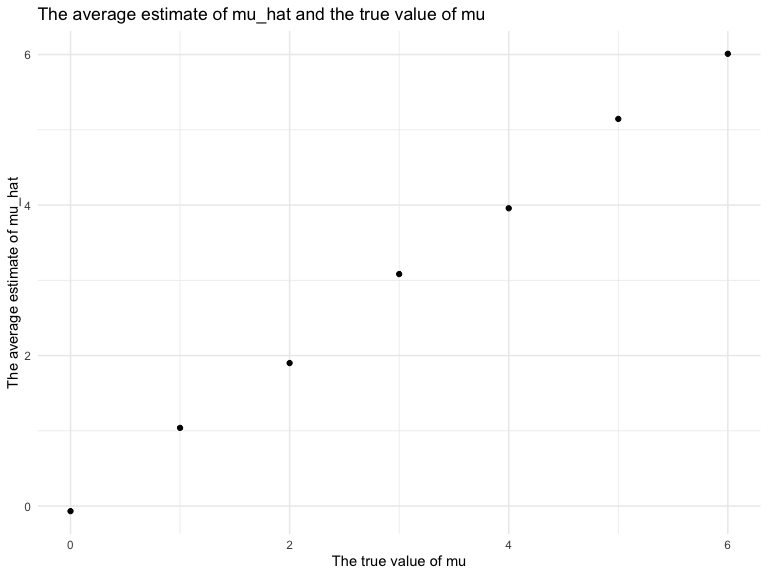
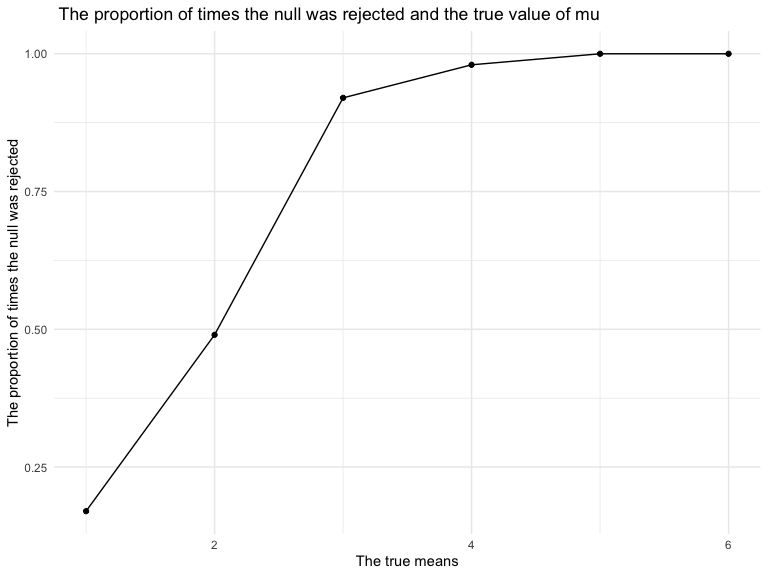
add line plots into three plots in problem 3

diff --git a/p8105_hw5_yc4016.md b/p8105_hw5_yc4016.md
@@ -297,28 +297,27 @@ each_cities =
   mutate(prop_cities = map2(.x = total_homicide_unsolved, .y = total_homicide, ~prop.test(x = .x, n = .y)),
          tidy_cities = map(.x = prop_cities, ~ broom::tidy(.x))) %>% 
   unnest(tidy_cities) %>% 
-  select(-prop_cities, city_state, estimate, conf.low, conf.high) %>% 
+  select(city_state, estimate, conf.low, conf.high) %>% 
   janitor::clean_names() 
+  
 
 each_cities
 ```
 
-    ## # A tibble: 50 × 11
-    ##    city_state  total…¹ total…² estim…³ stati…⁴   p_value param…⁵ conf_…⁶ conf_…⁷
-    ##    <chr>         <int>   <int>   <dbl>   <dbl>     <dbl>   <int>   <dbl>   <dbl>
-    ##  1 Albuquerqu…     378     146   0.386 1.91e+1 1.23e-  5       1   0.337   0.438
-    ##  2 Atlanta, GA     973     373   0.383 5.25e+1 4.32e- 13       1   0.353   0.415
-    ##  3 Baltimore,…    2827    1825   0.646 2.39e+2 6.46e- 54       1   0.628   0.663
-    ##  4 Baton Roug…     424     196   0.462 2.27e+0 1.32e-  1       1   0.414   0.511
-    ##  5 Birmingham…     800     347   0.434 1.38e+1 2.05e-  4       1   0.399   0.469
-    ##  6 Boston, MA      614     310   0.505 4.07e-2 8.40e-  1       1   0.465   0.545
-    ##  7 Buffalo, NY     521     319   0.612 2.58e+1 3.73e-  7       1   0.569   0.654
-    ##  8 Charlotte,…     687     206   0.300 1.09e+2 1.41e- 25       1   0.266   0.336
-    ##  9 Chicago, IL    5535    4073   0.736 1.23e+3 1.28e-269       1   0.724   0.747
-    ## 10 Cincinnati…     694     309   0.445 8.11e+0 4.41e-  3       1   0.408   0.483
-    ## # … with 40 more rows, 2 more variables: method <chr>, alternative <chr>, and
-    ## #   abbreviated variable names ¹total_homicide, ²total_homicide_unsolved,
-    ## #   ³estimate, ⁴statistic, ⁵parameter, ⁶conf_low, ⁷conf_high
+    ## # A tibble: 50 × 4
+    ##    city_state      estimate conf_low conf_high
+    ##    <chr>              <dbl>    <dbl>     <dbl>
+    ##  1 Albuquerque, NM    0.386    0.337     0.438
+    ##  2 Atlanta, GA        0.383    0.353     0.415
+    ##  3 Baltimore, MD      0.646    0.628     0.663
+    ##  4 Baton Rouge, LA    0.462    0.414     0.511
+    ##  5 Birmingham, AL     0.434    0.399     0.469
+    ##  6 Boston, MA         0.505    0.465     0.545
+    ##  7 Buffalo, NY        0.612    0.569     0.654
+    ##  8 Charlotte, NC      0.300    0.266     0.336
+    ##  9 Chicago, IL        0.736    0.724     0.747
+    ## 10 Cincinnati, OH     0.445    0.408     0.483
+    ## # … with 40 more rows
 
 #### Create a plot that shows the estimates and CIs for each city
 
@@ -340,12 +339,14 @@ plot_each_cities
 
 # Problem 3
 
+#### Create function
+
 ``` r
 norm_mean_p = function(n=30, mu, sigma = 5) {
   norm_data = tibble(x = rnorm(n, mean = mu, sd = sigma))
   norm_data %>% 
     t.test (mu = 0, alpha = 0.05, conf.level = 0.95) %>% 
-     broom::tidy ()
+    broom::tidy ()
 }
 
 norm_mean_p
@@ -355,12 +356,46 @@ norm_mean_p
     ##   norm_data = tibble(x = rnorm(n, mean = mu, sd = sigma))
     ##   norm_data %>% 
     ##     t.test (mu = 0, alpha = 0.05, conf.level = 0.95) %>% 
-    ##      broom::tidy ()
+    ##     broom::tidy ()
     ## }
+
+#### Test mean = 0
+
+``` r
+norm_results_0 = 
+  expand_grid(n = 30, 
+              mu = 0, 
+              sigma = 5,
+              iteration = 1:100) %>% 
+  mutate(estimate_df = map(mu, ~norm_mean_p(mu=.x))) %>% 
+  unnest(estimate_df)
+
+norm_results_0
+```
+
+    ## # A tibble: 100 × 12
+    ##        n    mu sigma iteration estimate statis…¹ p.value param…² conf.…³ conf.…⁴
+    ##    <dbl> <dbl> <dbl>     <int>    <dbl>    <dbl>   <dbl>   <dbl>   <dbl>   <dbl>
+    ##  1    30     0     5         1   0.491    0.664   0.512       29  -1.02    2.00 
+    ##  2    30     0     5         2  -0.173   -0.244   0.809       29  -1.62    1.28 
+    ##  3    30     0     5         3  -0.186   -0.203   0.841       29  -2.06    1.69 
+    ##  4    30     0     5         4   2.52     2.70    0.0114      29   0.611   4.42 
+    ##  5    30     0     5         5   0.0213   0.0226  0.982       29  -1.90    1.94 
+    ##  6    30     0     5         6  -0.651   -0.572   0.572       29  -2.98    1.67 
+    ##  7    30     0     5         7  -1.32    -1.54    0.135       29  -3.07    0.436
+    ##  8    30     0     5         8  -1.11    -1.27    0.213       29  -2.90    0.675
+    ##  9    30     0     5         9   0.442    0.442   0.662       29  -1.61    2.49 
+    ## 10    30     0     5        10   0.976    1.00    0.326       29  -1.02    2.97 
+    ## # … with 90 more rows, 2 more variables: method <chr>, alternative <chr>, and
+    ## #   abbreviated variable names ¹statistic, ²parameter, ³conf.low, ⁴conf.high
+
+#### Test mu = {1,2,3,4,5,6}
 
 ``` r
 norm_results = 
-  expand_grid(mu = c(0,1,2,3,4,5,6),
+  expand_grid(n = 30, 
+              mu = c(1,2,3,4,5,6),
+              sigma = 5,
               iteration = 1:100) %>% 
   mutate(estimate_df = map(mu, ~norm_mean_p(mu=.x))) %>% 
   unnest(estimate_df)
@@ -368,21 +403,21 @@ norm_results =
 norm_results
 ```
 
-    ## # A tibble: 700 × 10
-    ##       mu iterat…¹ estim…² stati…³ p.value param…⁴ conf.…⁵ conf.…⁶ method alter…⁷
-    ##    <dbl>    <int>   <dbl>   <dbl>   <dbl>   <dbl>   <dbl>   <dbl> <chr>  <chr>  
-    ##  1     0        1 -0.469  -0.521   0.606       29  -2.31    1.37  One S… two.si…
-    ##  2     0        2 -1.13   -1.21    0.237       29  -3.04    0.783 One S… two.si…
-    ##  3     0        3  0.0391  0.0498  0.961       29  -1.56    1.64  One S… two.si…
-    ##  4     0        4  0.438   0.506   0.616       29  -1.33    2.21  One S… two.si…
-    ##  5     0        5 -0.609  -0.653   0.519       29  -2.52    1.30  One S… two.si…
-    ##  6     0        6 -0.517  -0.582   0.565       29  -2.34    1.30  One S… two.si…
-    ##  7     0        7 -0.273  -0.286   0.777       29  -2.23    1.68  One S… two.si…
-    ##  8     0        8  1.45    1.26    0.217       29  -0.903   3.81  One S… two.si…
-    ##  9     0        9  0.257   0.231   0.819       29  -2.01    2.53  One S… two.si…
-    ## 10     0       10 -1.77   -1.79    0.0837      29  -3.78    0.250 One S… two.si…
-    ## # … with 690 more rows, and abbreviated variable names ¹iteration, ²estimate,
-    ## #   ³statistic, ⁴parameter, ⁵conf.low, ⁶conf.high, ⁷alternative
+    ## # A tibble: 600 × 12
+    ##        n    mu sigma iteration estimate statis…¹ p.value param…² conf.…³ conf.…⁴
+    ##    <dbl> <dbl> <dbl>     <int>    <dbl>    <dbl>   <dbl>   <dbl>   <dbl>   <dbl>
+    ##  1    30     1     5         1    0.857    1.32   0.198       29  -0.473    2.19
+    ##  2    30     1     5         2    1.51     1.65   0.111       29  -0.367    3.39
+    ##  3    30     1     5         3    2.26     2.47   0.0194      29   0.392    4.12
+    ##  4    30     1     5         4    0.727    0.762  0.452       29  -1.22     2.68
+    ##  5    30     1     5         5    1.84     2.52   0.0177      29   0.343    3.33
+    ##  6    30     1     5         6    1.57     1.44   0.160       29  -0.654    3.79
+    ##  7    30     1     5         7    1.36     1.60   0.120       29  -0.379    3.10
+    ##  8    30     1     5         8    0.858    0.825  0.416       29  -1.27     2.98
+    ##  9    30     1     5         9    0.236    0.234  0.817       29  -1.83     2.30
+    ## 10    30     1     5        10    0.156    0.227  0.822       29  -1.24     1.56
+    ## # … with 590 more rows, 2 more variables: method <chr>, alternative <chr>, and
+    ## #   abbreviated variable names ¹statistic, ²parameter, ³conf.low, ⁴conf.high
 
 #### Plot showing the proportion of times the null was rejected and the true value of mu.
 
@@ -390,24 +425,25 @@ norm_results
 plot1 = 
   norm_results%>%
     group_by(mu) %>%
-    summarize(n_sum = n(),
-              p_value_sum = sum(p.value < 0.05)) %>% 
-    mutate (proportion_rejected = p_value_sum / n_sum) %>% 
+    summarize(sum_all = n(),
+              sum_reject = sum(p.value < 0.05)) %>% 
+    mutate (proportion_rejected = sum_reject / sum_all) %>% 
   ggplot(aes(x = mu, y = proportion_rejected)) + 
   geom_point() + 
+  geom_line() + 
   labs(title = " The proportion of times the null was rejected and the true value of mu", 
-       x = "The true value of means",
+       x = "The true means",
        y = "The proportion of times the null was rejected") 
 
 plot1
 ```
 
-<img src="p8105_hw5_yc4016_files/figure-gfm/unnamed-chunk-11-1.png" width="90%" />
+<img src="p8105_hw5_yc4016_files/figure-gfm/unnamed-chunk-12-1.png" width="90%" />
 
 -   The proportion of times the null was rejected increases when the
     value of true mean increases.
 -   So the effect size and power have positive relationship.
--   So theeffect size increases, the power also increases.
+-   So the effect size increases, the power also increases.
 
 #### Plot showing the average estimate of mu_hat and the true value of mu.
 
@@ -415,16 +451,17 @@ plot1
 plot2 = 
   norm_results %>%
     group_by(mu) %>%
-    summarize(ave_estimate_mu_hat = mean(estimate)) %>%
-    ggplot(aes(x = mu, y = ave_estimate_mu_hat, group = mu)) + 
+    mutate(ave_estimate_mu_hat = mean(estimate)) %>%
+    ggplot(aes(x = mu, y = ave_estimate_mu_hat)) + 
     geom_point() +
+    geom_line() + 
     labs(title = "The average estimate of mu_hat and the true value of mu", 
-         x = "The true value of mu", 
+         x = "The true mu", 
          y = "The average estimate of mu_hat") 
 plot2
 ```
 
-<img src="p8105_hw5_yc4016_files/figure-gfm/unnamed-chunk-12-1.png" width="90%" />
+<img src="p8105_hw5_yc4016_files/figure-gfm/unnamed-chunk-13-1.png" width="90%" />
 
 #### Plot showing the average estimate of mu_hat only in samples for which the null was rejectedand the true value of mu.
 
@@ -433,16 +470,16 @@ plot3 =
   norm_results %>%
     group_by(mu) %>%
     filter(p.value < 0.05) %>% 
-    summarize(ave_estimate_mu_hat = mean(estimate)) %>%
-    ggplot(aes(x = mu, y = ave_estimate_mu_hat, group = mu)) + 
+    mutate(ave_estimate_mu_hat = mean(estimate)) %>%
+    ggplot(aes(x = mu, y = ave_estimate_mu_hat)) + 
     geom_point() + 
+    geom_line() + 
     labs(title = "The average estimate of mu_hat and the true value of mu", 
-         x = "The true value of mu", 
+         x = "The true mu", 
          y = "The average estimate of mu_hat only in samples for which the null was rejected") 
 plot3
 ```
 
-<img src="p8105_hw5_yc4016_files/figure-gfm/unnamed-chunk-13-1.png" width="90%" />
+<img src="p8105_hw5_yc4016_files/figure-gfm/unnamed-chunk-14-1.png" width="90%" />
 
--   Is the sample average of μ̂ across tests for which the null is
-    rejected approximately equal to the true value of μ? Why or why not?
+-   
